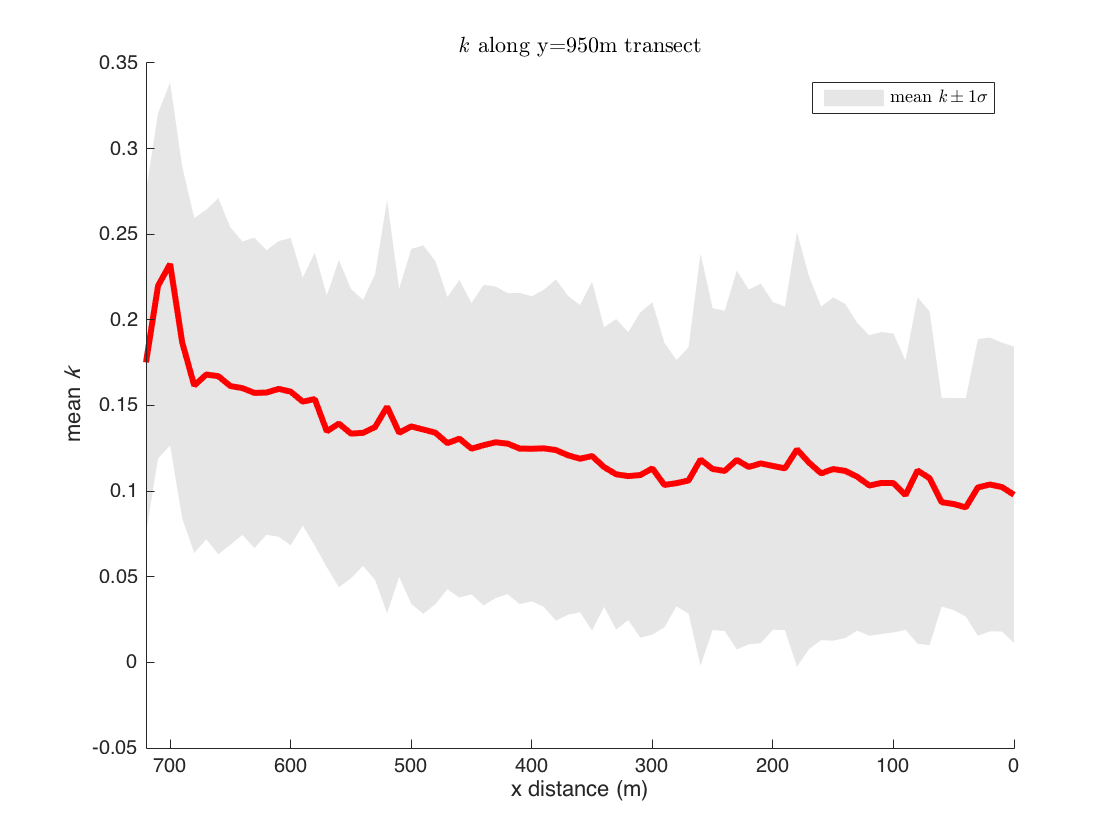
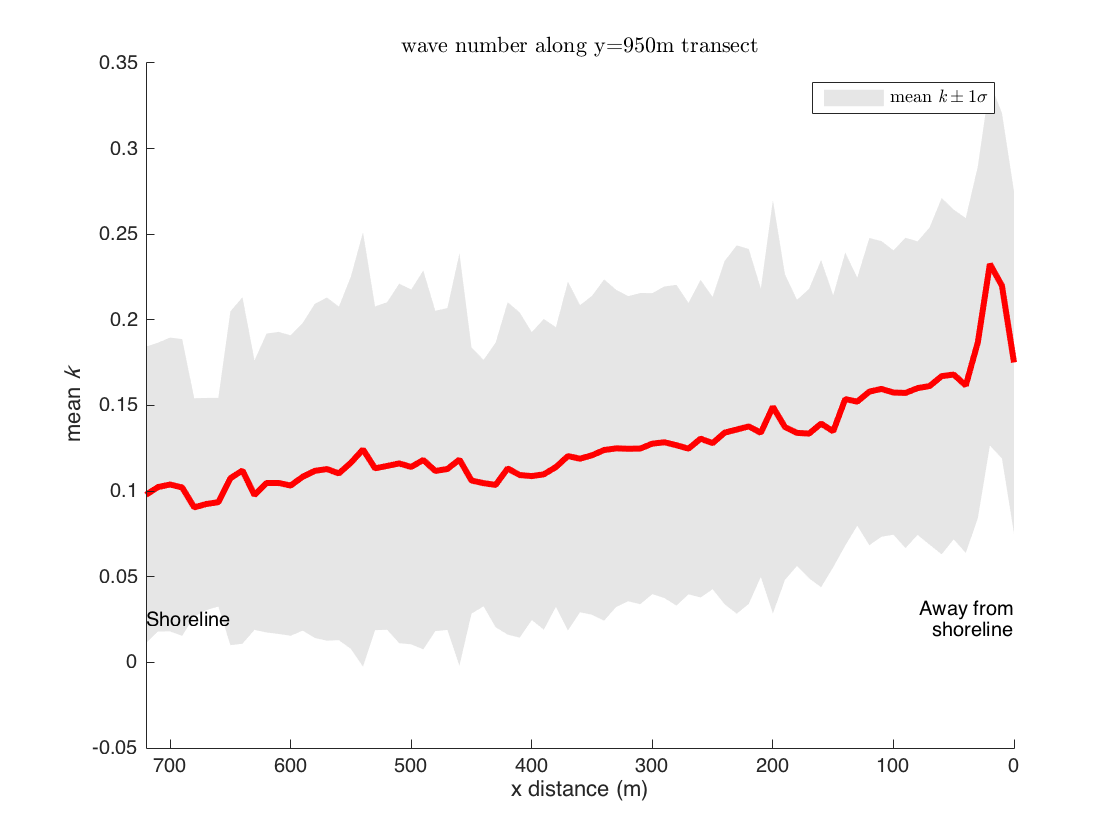
added shoreline/away from shoreline labels to k plot. saved new version of bath plot

diff --git a/Data/plot1DkObs.m b/Data/plot1DkObs.m
@@ -28,4 +28,8 @@ plot1DkObs
     t=title('wave number along y=950m transect');
     set(t,'Interpreter','Latex');
     set (gca,'Xdir','reverse')
+    shorestr = 'Shoreline';
+    nshorestr = sprintf('Away from\nshoreline');
+    text(0,0.025,nshorestr,'HorizontalAlignment','right');
+    text(max(xm)-min(xm),0.025,shorestr,'HorizontalAlignment','left');
 end
